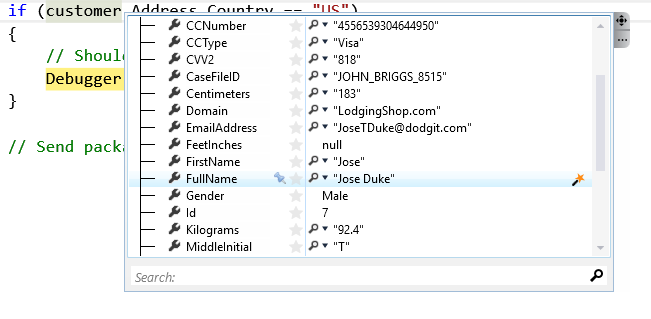
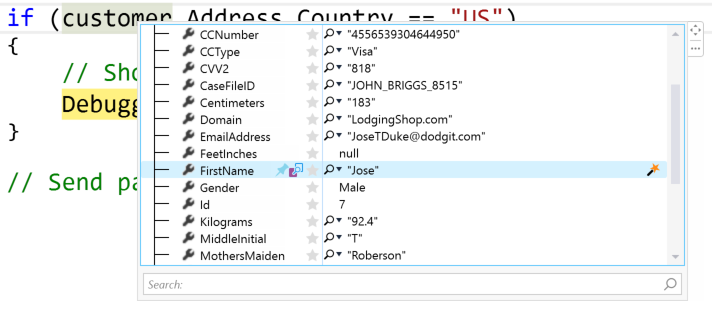
Fixed Reveal walkthrough

Changed region(s): [[0.0, 0.0, 1.0, 0.9903], [0.0, 0.2913, 0.0307, 0.3495]]

diff --git a/OzCodeDemo/12.LINQ/LinqDemo.cs b/OzCodeDemo/12.LINQ/LinqDemo.cs
@@ -17,8 +17,9 @@ namespace OzCodeDemo._12.LINQ
                         (Repeat until NO MORE BUGS)";
 
             var mostFrequentWord = text
-                .Split(' ', '.', ',')
+                .Split(' ', '.', ',', ')')
                 .Where(i => i != "")
+                .Select(s => s.ToLower())
                 .GroupBy(i => i)
                 .OrderBy(i => i.Count())
                 .Last();

diff --git a/OzCodeDemo/01.Reveal/README.md b/OzCodeDemo/01.Reveal/README.md
@@ -2,7 +2,7 @@
 **Focus on data that actually matters**   
 
 ##Overview
-Objects can have many properties, but when debugging, not all of them are useful to you. You’re usually interested only in a select few. For a Customer class, it might be the ID and FullName properties. For a Point in 3D space, it might be the X, Y, and Z fields. With OzCode's ***Reveal*** feature, you can finally focus on the data that actually matters. 
+Objects can have many properties, but when debugging, not all of them are useful to you. You’re usually interested only in a select few. For a Customer class, it might be the ID and FirstName properties. For a Point in 3D space, it might be the X, Y, and Z fields. With OzCode's ***Reveal*** feature, you can finally focus on the data that actually matters. 
 ##Using Reveal
 In order to run this demo press the _Reveal_ button in the demo application.  
 ![Reveal button](Resources/RevealButton.PNG)  
@@ -17,7 +17,7 @@ Hover your mouse over `customer` for the DataTip window appears. Then expand the
 
 ![RevealCustomerName](Resources/WatchWindow1.png) 
 
-Lastly find "FullName" and click on the "*star*" next to it:   
+Lastly find "FirstName" and click on the "*star*" next to it:   
 
 ![RevealCustomerName](Resources/WatchWindow2.png) 
 
@@ -25,8 +25,10 @@ Notice how the DataTip window and the HUD updated accordingly:
 
 ![RevealCustomerName](Resources/RevealFullName.png)
   
-Use the [Call Stack Window](https://msdn.microsoft.com/en-us/library/a3694ts5.aspx) to go back to the caller of the method, and use the DataTip again to see how many customers are from *Paris* (including Jose Duke).
-Since they're all instances of _Customer_, the _FullName_ which we've previously stared is shown automatically. 
+Add similarly use the *star* to add the "SurName" property as well.  
+
+Now use the [Call Stack Window](https://msdn.microsoft.com/en-us/library/a3694ts5.aspx) to go back to the caller of the method, and use the DataTip again to see how many customers are from *Paris* (including Jose Duke).
+Since they're all instances of _Customer_, the _FirstName_ which we've previously stared is shown automatically. 
 
 ![Customers from Paris](Resources/customersFromParis.png) 
 
